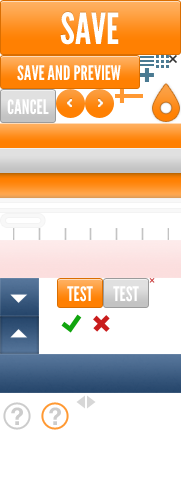
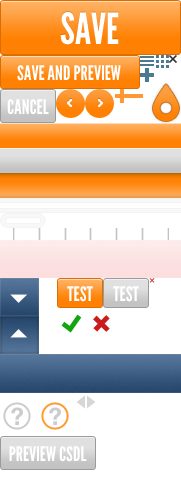
CSDL preview.

Changed region(s): [[0.0, 0.87, 0.5525, 0.96]]

diff --git a/src/jcsdl.css b/src/jcsdl.css
@@ -63,10 +63,13 @@
   display: block;
   height: 34px;
   width: 140px;
-  background: url("img/elements.png?22") no-repeat 0 -55px; }
+  background: url("img/elements.png?23") no-repeat 0 -55px; }
   .jcsdl-button.jcsdl-editor-cancel, .jcsdl-button.jcsdl-filter-cancel {
     width: 56px;
     background-position: 0 -89px; }
+  .jcsdl-button.jcsdl-editor-preview {
+    width: 96px;
+    background-position: 0 -436px; }
   .jcsdl-button:hover {
     -ms-filter: "progid:DXImageTransform.Microsoft.Alpha(Opacity=90)";
     filter: alpha(opacity=90);
@@ -122,9 +125,6 @@
     float: right; }
   .jcsdl-header .jcsdl-editor-save {
     margin-right: 0; }
-  .jcsdl-header .jcsdl-editor-cancel {
-    margin-left: 8px;
-    margin-right: 0; }
   .jcsdl-header .jcsdl-error {
     margin: 10px 0; }
 
@@ -166,7 +166,7 @@
   -moz-background-clip: padding;
   -webkit-background-clip: padding-box;
   background-clip: padding-box;
-  background: url("img/elements.png?22") repeat-x center -240px; }
+  background: url("img/elements.png?23") repeat-x center -240px; }
   .jcsdl-error strong {
     color: #d14c4c;
     font-weight: bold; }
@@ -194,7 +194,7 @@
   display: block;
   width: 14px;
   height: 14px;
-  background: url("img/elements.png?22") no-repeat -140px -68px; }
+  background: url("img/elements.png?23") no-repeat -140px -68px; }
 .jcsdl-mainview-action.jcsdl-add-filter.jcsdl-btn {
   margin-right: 0; }
 .jcsdl-mainview-action:hover.jcsdl-add-filter .jcsdl-picto {
@@ -220,7 +220,7 @@
   display: block;
   width: 13px;
   height: 13px;
-  background: url("img/elements.png?22") no-repeat -140px -55px;
+  background: url("img/elements.png?23") no-repeat -140px -55px;
   -ms-filter: "progid:DXImageTransform.Microsoft.Alpha(Opacity=30)";
   filter: alpha(opacity=30);
   -moz-opacity: 0.3;
@@ -294,7 +294,7 @@
       position: absolute;
       top: 50%;
       margin-top: -9px;
-      background: transparent url("img/elements.png?22") no-repeat -74px -393px;
+      background: transparent url("img/elements.png?23") no-repeat -74px -393px;
       -ms-filter: "progid:DXImageTransform.Microsoft.Alpha(Opacity=70)";
       filter: alpha(opacity=70);
       -moz-opacity: 0.7;
@@ -442,7 +442,7 @@
       width: 5px;
       height: 5px;
       margin: 3px 2px;
-      background: url("img/elements.png?22") no-repeat -149px -278px; }
+      background: url("img/elements.png?23") no-repeat -149px -278px; }
   .jcsdl-logic-token.bracket {
     font-size: 2.25em;
     width: 44px; }
@@ -652,7 +652,7 @@ a.jcsdl-filters-logic-option {
   height: 29px;
   line-height: 29px;
   text-align: center;
-  background: transparent url("img/elements.png?22") no-repeat -56px -89px; }
+  background: transparent url("img/elements.png?23") no-repeat -56px -89px; }
   .jcsdl-carousel-scroll.right {
     float: right;
     background-position: -85px -89px; }
@@ -795,7 +795,7 @@ a.jcsdl-filters-logic-option {
       -moz-background-clip: padding;
       -webkit-background-clip: padding-box;
       background-clip: padding-box;
-      background: url("img/elements.png?22") no-repeat 0 -278px; }
+      background: url("img/elements.png?23") no-repeat 0 -278px; }
     .jcsdl-filter-editor .jcsdl-operators-select:hover {
       background: #fafafa; }
       .jcsdl-filter-editor .jcsdl-operators-select:hover .jcsdl-dropdown-icon {
@@ -922,7 +922,7 @@ a.jcsdl-filters-logic-option {
           position: absolute;
           right: 4px;
           top: 12px;
-          background: url("img/elements.png?22") no-repeat -169px -55px;
+          background: url("img/elements.png?23") no-repeat -169px -55px;
           -ms-filter: "progid:DXImageTransform.Microsoft.Alpha(Opacity=70)";
           filter: alpha(opacity=70);
           -moz-opacity: 0.7;
@@ -959,7 +959,7 @@ a.jcsdl-filters-logic-option {
     height: 30px;
     overflow: hidden;
     text-indent: -9999px;
-    background: url("img/elements.png?22") no-repeat -57px -278px; }
+    background: url("img/elements.png?23") no-repeat -57px -278px; }
     .jcsdl-input-text .jcsdl-regex-tester-button:hover, .jcsdl-input-number .jcsdl-regex-tester-button:hover {
       -ms-filter: "progid:DXImageTransform.Microsoft.Alpha(Opacity=90)";
       filter: alpha(opacity=90);
@@ -993,7 +993,7 @@ a.jcsdl-filters-logic-option {
     width: 30px;
     height: 30px;
     overflow: hidden;
-    background: url("img/elements.png?22") no-repeat -57px -308px; }
+    background: url("img/elements.png?23") no-repeat -57px -308px; }
     .jcsdl-input-text .jcsdl-regex-tester .jcsdl-regex-result.ok, .jcsdl-input-number .jcsdl-regex-tester .jcsdl-regex-result.ok {
       background-position: -57px -308px; }
     .jcsdl-input-text .jcsdl-regex-tester .jcsdl-regex-result.err, .jcsdl-input-number .jcsdl-regex-tester .jcsdl-regex-result.err {
@@ -1083,7 +1083,7 @@ a.jcsdl-filters-logic-option {
       display: block;
       width: 14px;
       height: 14px;
-      background: transparent url("img/elements.png?22") no-repeat -115px -89px;
+      background: transparent url("img/elements.png?23") no-repeat -115px -89px;
       -ms-filter: "progid:DXImageTransform.Microsoft.Alpha(Opacity=70)";
       filter: alpha(opacity=70);
       -moz-opacity: 0.7;
@@ -1155,7 +1155,7 @@ a.jcsdl-filters-logic-option {
     margin-bottom: 7px;
     height: 12px;
     cursor: pointer;
-    background: transparent url("img/elements.png?22") repeat-x center -228px;
+    background: transparent url("img/elements.png?23") repeat-x center -228px;
     border: 0;
     -webkit-border-radius: 0px;
     -khtml-border-radius: 0px;
@@ -1173,7 +1173,7 @@ a.jcsdl-filters-logic-option {
       width: 30px;
       height: 40px;
       cursor: pointer;
-      background: transparent url("img/elements.png?22") no-repeat -152px -83px;
+      background: transparent url("img/elements.png?23") no-repeat -152px -83px;
       border: 0;
       outline: none; }
   .jcsdl-input-slider .jcsdl-slider-bottom {
@@ -1186,7 +1186,7 @@ a.jcsdl-filters-logic-option {
       width: 15px;
       height: 15px;
       float: left;
-      background: transparent url("img/elements.png?22") no-repeat 0 -213px; }
+      background: transparent url("img/elements.png?23") no-repeat 0 -213px; }
     .jcsdl-input-slider .jcsdl-slider-bottom .jcsdl-slider-bottom-right {
       float: right;
       background-position: -31px -213px; }
@@ -1194,7 +1194,7 @@ a.jcsdl-filters-logic-option {
       display: block;
       height: 15px;
       margin: 0 15px;
-      background: transparent url("img/elements.png?22") repeat-x 0 -198px; }
+      background: transparent url("img/elements.png?23") repeat-x 0 -198px; }
 
 .jcsdl-map {
   text-align: center;
@@ -2460,7 +2460,7 @@ a.jcsdl-filters-logic-option {
       width: 38px;
       overflow: hidden;
       text-indent: -9999px;
-      background: url("img/elements.png?22") no-repeat 0 -393px; }
+      background: url("img/elements.png?23") no-repeat 0 -393px; }
       .jcsdl-dropdown .jcsdl-dropdown-option .jcsdl-dropdown-details-trigger:hover {
         background-position: -38px -393px; }
     .jcsdl-dropdown .jcsdl-dropdown-option .jcsdl-dropdown-option-desc {
@@ -2504,7 +2504,7 @@ a.jcsdl-filters-logic-option {
     overflow: hidden;
     position: relative;
     padding: 0 10px;
-    background: url("img/elements.png?22") repeat-x 0 -354px;
+    background: url("img/elements.png?23") repeat-x 0 -354px;
     border: 1px solid #1d3550;
     border-bottom: 0;
     -webkit-border-top-left-radius: 3px;
@@ -2539,7 +2539,7 @@ a.jcsdl-filters-logic-option {
       height: 40px;
       overflow: hidden;
       text-indent: -9999px;
-      background: url("img/elements.png?22") no-repeat -118px -310px; }
+      background: url("img/elements.png?23") no-repeat -118px -310px; }
       .jcsdl-popup .jcsdl-popup-header .jcsdl-popup-close:hover {
         -ms-filter: "progid:DXImageTransform.Microsoft.Alpha(Opacity=70)";
         filter: alpha(opacity=70);
@@ -2660,7 +2660,7 @@ a.jcsdl-filters-logic-option {
 /* retina elements sprite */
 @media only screen and (-webkit-min-device-pixel-ratio: 1.5), only screen and (-o-min-device-pixel-ratio: 3 / 2), only screen and (min--moz-device-pixel-ratio: 1.5), only screen and (min-device-pixel-ratio: 1.5) {
   .jcsdl-elements-sprite {
-    background-image: url("img/elements@2x.png?2");
+    background-image: url("img/elements@2x.png?3");
     -moz-background-size: 181px 500px;
     -ie-background-size: 181px 500px;
     -o-background-size: 181px 500px;

diff --git a/src/jcsdl.gui.js b/src/jcsdl.gui.js
@@ -129,6 +129,7 @@ JCSDL.Loader.addComponent(function($, undefined) {
 			this.$el.html(this.$container);
 
 			this.$saveButton = this.$mainView.find('.jcsdl-editor-save');
+            this.$previewButton = this.$mainView.find('.jcsdl-editor-preview');
 			this.$cancelButton = this.$mainView.find('.jcsdl-editor-cancel');
 
 			// is there a custom save button defined?
@@ -214,6 +215,25 @@ JCSDL.Loader.addComponent(function($, undefined) {
 					self.trigger('saveError', [message]);
 				}
 			});
+
+            /**
+             * Show CSDL preview in a popup.
+             *
+             * @param  {Event} ev Click Event.
+             */
+            this.$previewButton.unbind('.jcsdl').bind('click.jcsdl touchstart.jcsdl', function(ev) {
+                ev.preventDefault();
+                ev.target.blur();
+
+                try {
+                    $.jcsdlPopup({
+                        title : 'CSDL Preview',
+                        content : '<pre class="jcsdl-code">' + self.returnJCSDL() + '</pre>'
+                    });
+                } catch(e) {
+                    self.showError(e);
+                }
+            });
 
 			/**
 			 * Handle pressing the cancel button.

diff --git a/src/jcsdl.gui.templates.js b/src/jcsdl.gui.templates.js
@@ -12,8 +12,9 @@ JCSDL.Loader.addComponent(function($, undefined) {
 					'<div class="jcsdl-row">',
 						'<h3>Filters</h3>',
 						'<div class="jcsdl-actions">',
+                            '<a href="#" class="jcsdl-button jcsdl-elements-sprite jcsdl-editor-cancel">Cancel</a>',
+                            '<a href="#" class="jcsdl-button jcsdl-elements-sprite jcsdl-editor-preview">Preview CSDL</a>',
 							'<a href="#" class="jcsdl-button jcsdl-elements-sprite jcsdl-editor-save">Save and Preview</a>',
-							'<a href="#" class="jcsdl-button jcsdl-elements-sprite jcsdl-editor-cancel">Cancel</a>',
 						'</div>',
 					'</div>',
 
@@ -63,6 +64,7 @@ JCSDL.Loader.addComponent(function($, undefined) {
 				'<div class="jcsdl-footer">',
 					'<div class="jcsdl-actions">',
 						'<a href="#" class="jcsdl-button jcsdl-elements-sprite jcsdl-editor-save">Save and Preview</a>',
+                        '<a href="#" class="jcsdl-button jcsdl-elements-sprite jcsdl-editor-preview">Preview CSDL</a>',
 						'<a href="#" class="jcsdl-button jcsdl-elements-sprite jcsdl-editor-cancel">Cancel</a>',
 					'</div>',
 

diff --git a/src/jcsdl.scss b/src/jcsdl.scss
@@ -12,8 +12,8 @@ $borderColorInput : #c8d7de;
 $backgroundSmoked : #fafafa;
 $fontFamily : "Helvetica Neue", "Helvetica", sans-serif;
 $fontSize : 13px;
-$elementsSprite : 'img/elements.png?22';
-$elementsSpriteRetina : 'img/elements@2x.png?2';
+$elementsSprite : 'img/elements.png?23';
+$elementsSpriteRetina : 'img/elements@2x.png?3';
 $selectSprite : 'img/select.png?14';
 $selectSpriteRetina : 'img/select@2x.png';
 $stepBackground : 'img/step_background.png?5';
@@ -137,6 +137,7 @@ $loader : 'img/loader.gif';
 
 	&.jcsdl-editor-save, &.jcsdl-filter-save {}
 	&.jcsdl-editor-cancel, &.jcsdl-filter-cancel {width: 56px; background-position: 0 -89px;}
+    &.jcsdl-editor-preview {width: 96px; background-position: 0 -436px;}
 
 	&:hover {@include opacity(0.9);}
 }
@@ -175,7 +176,6 @@ $loader : 'img/loader.gif';
 
 	.jcsdl-actions {float: right;}
 	.jcsdl-editor-save {margin-right: 0;}
-	.jcsdl-editor-cancel {margin-left: 8px; margin-right: 0;}
 	.jcsdl-error {margin: 10px 0;}
 }
 
